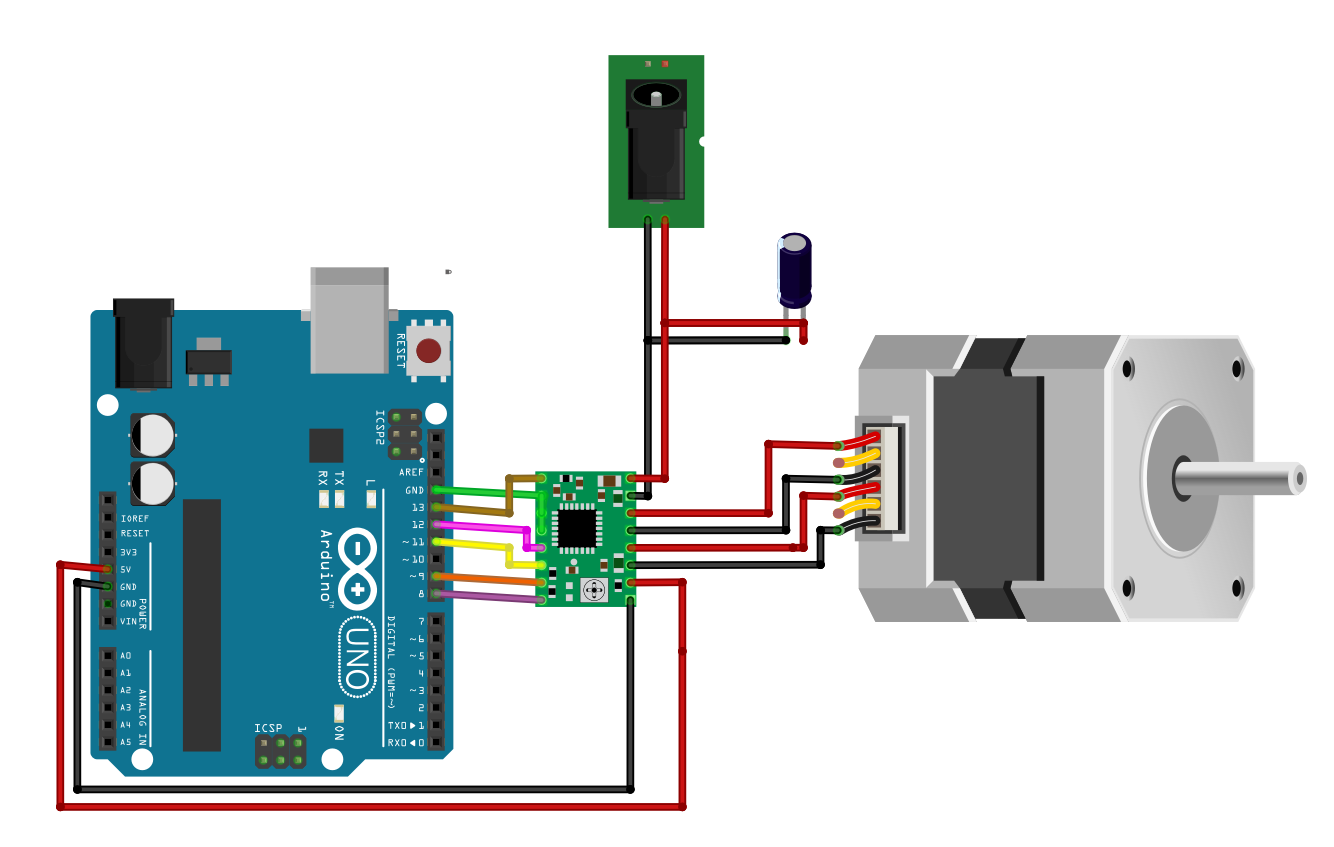
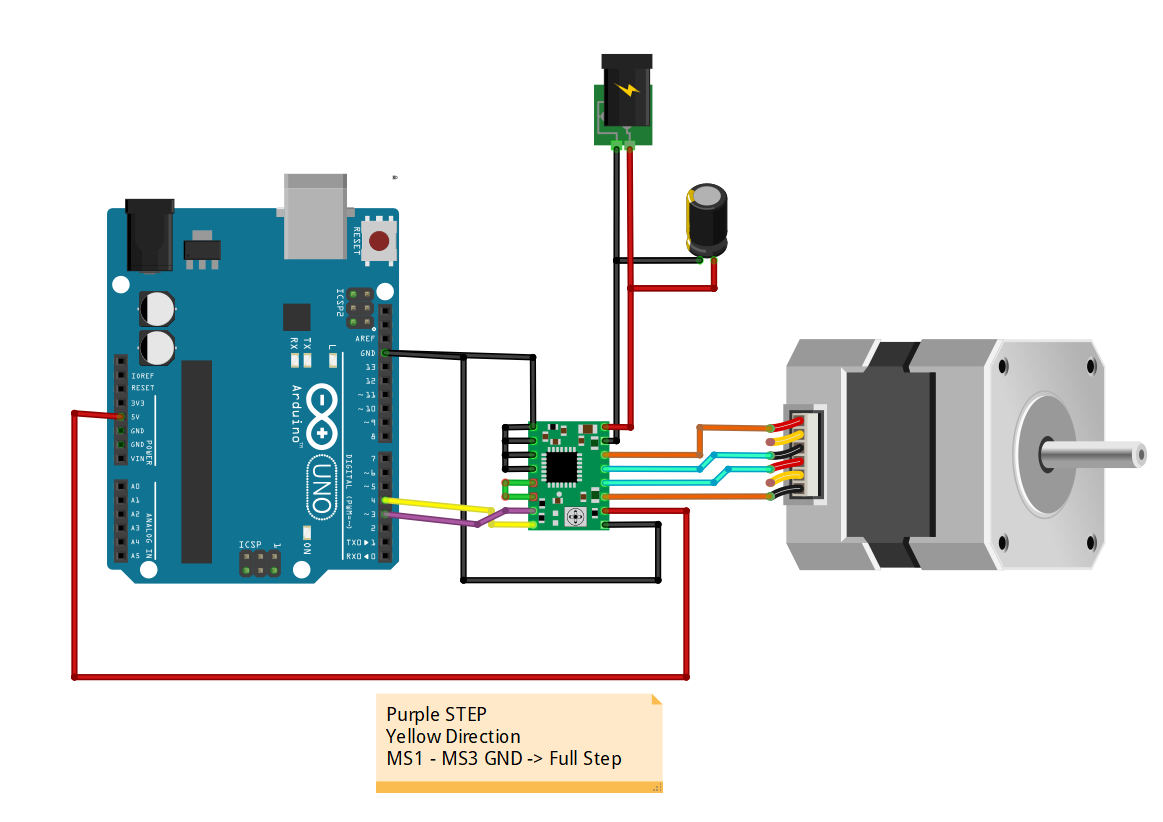
update, these two need proper rework

diff --git a/8 - Dot Matrix Display/main.cpp b/8 - Dot Matrix Display/main.cpp
@@ -2,6 +2,8 @@
  * DOT_Matrix.cpp
  *
  * Created: 7/5/2023 9:01:04 PM
+ * This method requires understanding and schematic of the DOT MATRIX. BASED ON 1088AS.
+ * Not perfect but for time sake, will revist latter. 
  * Author : B550-E
  */ 
 #ifndef F_CPU
@@ -12,76 +14,81 @@
 #include <util/delay.h>
 
 #define delay 100
-#define scan 50
+#define scan 5
 #define interval 3000
 
 void off()
 {
-	PORTD = 0x00;
+	PORTD = 0xFF;
+	PORTB = 0xFF;
+	PORTC = 0xFF;
 	_delay_ms(delay);
 }
 
 void on()
 {
 	PORTD = 0xFF;
+	PORTB = 0x00;
+	PORTC = 0x00;
 	_delay_ms(delay);
 }
 void one()
 {
 	PORTD = 0x18;
+	PORTB = 0x00;
+	PORTC = 0x00;
 	_delay_ms(delay);
 }
 
 void two()
 {
 	PORTD = 0xFF;
-	PORTC = 0xFC;
-	PORTB = 0xFF;
+	PORTC = ~0x00;
+	PORTB = ~0x03;
 	_delay_ms(scan);
 	PORTD = 0x70;
-	PORTC = 0xFF;
-	PORTB = 0xDF;
+	PORTC = ~0x00;	
+	PORTB = ~0x04;
 	_delay_ms(scan);
 	PORTD = 0x38;
-	PORTC = 0xFF;
-	PORTB = 0xEF;
-	_delay_ms(scan);
-	PORTD = 0x1C;
-	PORTC = 0xFF;
-	PORTB = 0xF7;
+	PORTC = ~0x00;
+	PORTB = ~0x08;
 	_delay_ms(scan);	
+	PORTD = 0x1C;
+	PORTC = ~0x00;
+	PORTB = ~0x10;
+	_delay_ms(scan);
 	PORTD = 0x0E;
-	PORTC = 0xFF;
-	PORTB = 0xFB;
+	PORTC = ~0x00;
+	PORTB = ~0x20;
 	_delay_ms(scan);
 	PORTD = 0xFF;
-	PORTC = 0xFF;
-	PORTB = 0xFD;
+	PORTC = ~0x01;
+	PORTB = ~0x00;
 	_delay_ms(scan);
-	PORTD = 0x7E;
-	PORTC = 0xFF;
-	PORTB = 0xFE;
-	_delay_ms(scan);		
-}
+	PORTD = 0xFE;
+	PORTC = ~0x02;
+	PORTB = ~0x00;
+	_delay_ms(scan);				
+}	
 
 int main(void)
 {
-	DDRD = 0xFF;	// COLUMN
-	DDRB = 0x3F;	// ROW
-	DDRC = 0x03;	// ROW
+	DDRD = 0xFF;	// COLUMN D0 - D7
+	DDRB = 0x3F;	// ROW B0 - B5 
+	DDRC = 0x03;	// ROW C0 & C1
 	
 	_delay_ms(delay);
     while (1) 
     {
-		//off();
-		//_delay_ms(interval);
-		//on();
-		//_delay_ms(interval);
-		//one();
-		//_delay_ms(interval);
-		//two();
-		//_delay_ms(100);
-		//_delay_ms(500);
+		off();
+		_delay_ms(interval);
+		on();
+		_delay_ms(interval);
+		one();
+		_delay_ms(interval);
+		two();
+		_delay_ms(100);
     }
 }
 

diff --git a/10 - Stepper Motor/main.cpp b/10 - Stepper Motor/main.cpp
@@ -2,7 +2,9 @@
  * stepper_A4988N.cpp
  *
  * Created: 7/6/2023 7:15:20 PM
+ * Modified: 8/7/2023 4:29:51 PM
  * Author : B550-E
+ * Note: Works but motor spins too slow. 
  */ 
 #ifndef F_CPU
 #define F_CPU 16000000UL
@@ -11,32 +13,30 @@
 #include <avr/io.h>
 #include <util/delay.h>
 
-#define stepPin 0x02
-#define dirPin 0x01
-
 int main(void)
 {
-    DDRB = 0x03;
-	PORTB = dirPin;
+    DDRD = 0x18;	// DIR - PD4, STEP PD3 1 as output
+	_delay_ms(100);
     while (1) 
     {
-		for(int x = 0; x < 200; x++)
+		PORTD = 0x10;
+		_delay_ms(100);
+		for(int x = 0; x < 20; x++)
 		{
-			PORTB = (stepPin ^ dirPin);
+			PORTD = 0x18;
 			_delay_ms(500);
-			PORTB = dirPin;
+			PORTD = 0x10;
 			_delay_ms(500);
 		}
-		_delay_ms(1000);
-		PORTB = 0x00;
-		for(int x = 0; x < 400; x++)
+		PORTD = 0x00;
+		_delay_ms(100);
+		for(int x = 0; x < 20; x++)
 		{
-			PORTB = stepPin;
+			PORTD = 0x08;
 			_delay_ms(500);
-			PORTB = 0x00;
+			PORTD = 0x00;
 			_delay_ms(500);
 		}
-		_delay_ms(1000);
     }
 }
 
